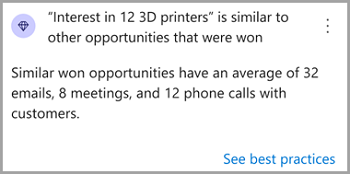
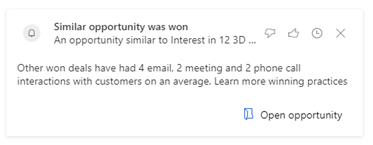
updated cards and table tags

Changed region(s): [[0.0, 0.0, 1.0, 1.0], [0.6571, 0.7448, 0.9143, 0.8276], [0.8286, 0.1103, 0.9429, 0.2759]]

diff --git a/ai-docs/sales/faqs-sales-insights.md b/ai-docs/sales/faqs-sales-insights.md
@@ -48,37 +48,37 @@ Sales insights features are available in the following regions:
 <th>Feature</th><th>NAM</th><th>EMEA</th><th>GBR</th><th>APJ</th><th>CAN</th><th>IND</th><th>JPN</th><th>OCE</th><th>SAM</th>
 </tr>
 <tr>
-<td>Assistant</td><td style="text-align:center"><span style = "color:#3D9140;"><b>&#x2714;</b></span></td><td style="text-align:center"><span style = "color:#3D9140;"><b>&#x2714;</b></span></td><td style="text-align:center"><span style = "color:#3D9140;"><b>&#x2714;</b></span></td><td style="text-align:center"><span style = "color:#3D9140;"><b>&#x2714;</b></span></td><td style="text-align:center"><span style = "color:#3D9140;"><b>&#x2714;</b></span></td><td style="text-align:center"><span style = "color:#3D9140;"><b>&#x2714;</b></span></td><td style="text-align:center"><span style = "color:#3D9140;"><b>&#x2714;</b></span></td><td style="text-align:center"><span style = "color:#3D9140;"><b>&#x2714;</b></span></td><td style="text-align:center"><span style = "color:#FF0800;"><b>&#x2716;</b></span></td>
+<td>Assistant</td><td style="text-align:center"><b>&#x2714;</b></td><td style="text-align:center"><b>&#x2714;</b></td><td style="text-align:center"><b>&#x2714;</b></td><td style="text-align:center"><b>&#x2714;</b></td><td style="text-align:center"><b>&#x2714;</b></td><td style="text-align:center"><b>&#x2714;</b></td><td style="text-align:center"><b>&#x2714;</b></td><td style="text-align:center"><b>&#x2714;</b></td><td style="text-align:center"><b>&#x2716;</b></td>
 </tr>
 <tr>
-<td>Sales accelerator</td><td style="text-align:center"><span style = "color:#3D9140;"><b>&#x2714;</b></span></td><td style="text-align:center"><span style = "color:#3D9140;"><b>&#x2714;</b></span></td><td style="text-align:center"><span style = "color:#3D9140;"><b>&#x2714;</b></span></td><td style="text-align:center"><span style = "color:#3D9140;"><b>&#x2714;</b></span></td><td style="text-align:center"><span style = "color:#3D9140;"><b>&#x2714;</b></span></td><td style="text-align:center"><span style = "color:#3D9140;"><b>&#x2714;</b></span></td><td style="text-align:center"><span style = "color:#3D9140;"><b>&#x2714;</b></span></td><td style="text-align:center"><span style = "color:#3D9140;"><b>&#x2714;</b></span></td><td style="text-align:center"><span style = "color:#FF0800;"><b>&#x2716;</b></span></td>
+<td>Sales accelerator</td><td style="text-align:center"><b>&#x2714;</b></td><td style="text-align:center"><b>&#x2714;</b></td><td style="text-align:center"><b>&#x2714;</b></td><td style="text-align:center"><b>&#x2714;</b></td><td style="text-align:center"><b>&#x2714;</b></td><td style="text-align:center"><b>&#x2714;</b></td><td style="text-align:center"><b>&#x2714;</b></td><td style="text-align:center"><b>&#x2714;</b></td><td style="text-align:center"><b>&#x2716;</b></td>
 </tr>
 <tr>
-<td>Conversation intelligence</td><td style="text-align:center"><span style = "color:#3D9140;"><b>&#x2714;</b></span></td><td style="text-align:center"><span style = "color:#3D9140;"><b>&#x2714;</b></span></td><td style="text-align:center"><span style = "color:#3D9140;"><b>&#x2714;</b></span></td><td style="text-align:center"><span style = "color:#3D9140;"><b>&#x2714;</b></span></td><td style="text-align:center"><span style = "color:#3D9140;"><b>&#x2714;</b></span></td><td style="text-align:center"><span style = "color:#3D9140;"><b>&#x2714;</b></span></td><td style="text-align:center"><span style = "color:#3D9140;"><b>&#x2714;</b></span></td><td style="text-align:center"><span style = "color:#3D9140;"><b>&#x2714;</b></span></td><td style="text-align:center"><span style = "color:#3D9140;"><b>&#x2714;</b></span></td>
+<td>Conversation intelligence</td><td style="text-align:center"><b>&#x2714;</b></td><td style="text-align:center"><b>&#x2714;</b></td><td style="text-align:center"><b>&#x2714;</b></td><td style="text-align:center"><b>&#x2714;</b></td><td style="text-align:center"><b>&#x2714;</b></td><td style="text-align:center"><b>&#x2714;</b></td><td style="text-align:center"><b>&#x2714;</b></td><td style="text-align:center"><b>&#x2714;</b></td><td style="text-align:center"><b>&#x2714;</b></td>
 </tr>
 <tr>
-<td>Auto capture</td><td style="text-align:center"><span style = "color:#3D9140;"><b>&#x2714;</b></span></td><td style="text-align:center"><span style = "color:#3D9140;"><b>&#x2714;</b></span></td><td style="text-align:center"><span style = "color:#3D9140;"><b>&#x2714;</b></span></td><td style="text-align:center"><span style = "color:#3D9140;"><b>&#x2714;</b></span></td><td style="text-align:center"><span style = "color:#3D9140;"><b>&#x2714;</b></span></td><td style="text-align:center"><span style = "color:#3D9140;"><b>&#x2714;</b></span></td><td style="text-align:center"><span style = "color:#3D9140;"><b>&#x2714;</b></span></td><td style="text-align:center"><span style = "color:#3D9140;"><b>&#x2714;</b></span></td><td style="text-align:center"><span style = "color:#FF0800;"><b>&#x2716;</b></span></td>
+<td>Auto capture</td><td style="text-align:center"><b>&#x2714;</b></td><td style="text-align:center"><b>&#x2714;</b></td><td style="text-align:center"><b>&#x2714;</b></td><td style="text-align:center"><b>&#x2714;</b></td><td style="text-align:center"><b>&#x2714;</b></td><td style="text-align:center"><b>&#x2714;</b></td><td style="text-align:center"><b>&#x2714;</b></td><td style="text-align:center"><b>&#x2714;</b></td><td style="text-align:center"><b>&#x2716;</b></td>
 </tr>
 <tr>
-<td>Notes analysis</td><td style="text-align:center"><span style = "color:#3D9140;"><b>&#x2714;</b></span></td><td style="text-align:center"><span style = "color:#3D9140;"><b>&#x2714;</b></span></td><td style="text-align:center"><span style = "color:#3D9140;"><b>&#x2714;</b></span></td><td style="text-align:center"><span style = "color:#3D9140;"><b>&#x2714;</b></span></td><td style="text-align:center"><span style = "color:#3D9140;"><b>&#x2714;</b></span></td><td style="text-align:center"><span style = "color:#3D9140;"><b>&#x2714;</b></span></td><td style="text-align:center"><span style = "color:#3D9140;"><b>&#x2714;</b></span></td><td style="text-align:center"><span style = "color:#3D9140;"><b>&#x2714;</b></span></td><td style="text-align:center"><span style = "color:#FF0800;"><b>&#x2716;</b></span></td>
+<td>Notes analysis</td><td style="text-align:center"><b>&#x2714;</b></td><td style="text-align:center"><b>&#x2714;</b></td><td style="text-align:center"><b>&#x2714;</b></td><td style="text-align:center"><b>&#x2714;</b></td><td style="text-align:center"><b>&#x2714;</b></td><td style="text-align:center"><b>&#x2714;</b></td><td style="text-align:center"><b>&#x2714;</b></td><td style="text-align:center"><b>&#x2714;</b></td><td style="text-align:center"><b>&#x2716;</b></td>
 </tr>
 <tr>
-<td>Relationship analytics</td><td style="text-align:center"><span style = "color:#3D9140;"><b>&#x2714;</b></span></td><td style="text-align:center"><span style = "color:#3D9140;"><b>&#x2714;</b></span></td><td style="text-align:center"><span style = "color:#3D9140;"><b>&#x2714;</b></span></td><td style="text-align:center"><span style = "color:#3D9140;"><b>&#x2714;</b></span></td><td style="text-align:center"><span style = "color:#3D9140;"><b>&#x2714;</b></span></td><td style="text-align:center"><span style = "color:#3D9140;"><b>&#x2714;</b></span></td><td style="text-align:center"><span style = "color:#3D9140;"><b>&#x2714;</b></span></td><td style="text-align:center"><span style = "color:#3D9140;"><b>&#x2714;</b></span></td><td style="text-align:center"><span style = "color:#FF0800;"><b>&#x2716;</b></span></td>
+<td>Relationship analytics</td><td style="text-align:center"><b>&#x2714;</b></td><td style="text-align:center"><b>&#x2714;</b></td><td style="text-align:center"><b>&#x2714;</b></td><td style="text-align:center"><b>&#x2714;</b></td><td style="text-align:center"><b>&#x2714;</b></td><td style="text-align:center"><b>&#x2714;</b></td><td style="text-align:center"><b>&#x2714;</b></td><td style="text-align:center"><b>&#x2714;</b></td><td style="text-align:center"><b>&#x2716;</b></td>
 </tr>
 <tr>
-<td>Who knows whom</td><td style="text-align:center"><span style = "color:#3D9140;"><b>&#x2714;</b></span></td><td style="text-align:center"><span style = "color:#FF0800;"><b>&#x2716;</b></span</td><td style="text-align:center"><span style = "color:#FF0800;"><b>&#x2716;</b></span</td><td style="text-align:center"><span style = "color:#FF0800;"><b>&#x2716;</b></span</td><td style="text-align:center"><span style = "color:#FF0800;"><b>&#x2716;</b></span</td><td style="text-align:center"><span style = "color:#FF0800;"><b>&#x2716;</b></span</td><td style="text-align:center"><span style = "color:#FF0800;"><b>&#x2716;</b></span</td><td style="text-align:center"><span style = "color:#FF0800;"><b>&#x2716;</b></span</td><td style="text-align:center"><span style = "color:#FF0800;"><b>&#x2716;</b></span></td>
+<td>Who knows whom</td><td style="text-align:center"><b>&#x2714;</b></td><td style="text-align:center"><b>&#x2716;</b></span</td><td style="text-align:center"><b>&#x2716;</b></span</td><td style="text-align:center"><b>&#x2716;</b></span</td><td style="text-align:center"><b>&#x2716;</b></span</td><td style="text-align:center"><b>&#x2716;</b></span</td><td style="text-align:center"><b>&#x2716;</b></span</td><td style="text-align:center"><b>&#x2716;</b></span</td><td style="text-align:center"><b>&#x2716;</b></td>
 </tr>
 <tr>
-<td>Talking points</td><td style="text-align:center"><span style = "color:#3D9140;"><b>&#x2714;</b></span></td><td style="text-align:center"><span style = "color:#3D9140;"><b>&#x2714;</b></span></td><td style="text-align:center"><span style = "color:#3D9140;"><b>&#x2714;</b></span></td><td style="text-align:center"><span style = "color:#3D9140;"><b>&#x2714;</b></span></td><td style="text-align:center"><span style = "color:#3D9140;"><b>&#x2714;</b></span></td><td style="text-align:center"><span style = "color:#3D9140;"><b>&#x2714;</b></span></td><td style="text-align:center"><span style = "color:#3D9140;"><b>&#x2714;</b></span></td><td style="text-align:center"><span style = "color:#3D9140;"><b>&#x2714;</b></span></td><td style="text-align:center"><span style = "color:#FF0800;"><b>&#x2716;</b></span></td>
+<td>Talking points</td><td style="text-align:center"><b>&#x2714;</b></td><td style="text-align:center"><b>&#x2714;</b></td><td style="text-align:center"><b>&#x2714;</b></td><td style="text-align:center"><b>&#x2714;</b></td><td style="text-align:center"><b>&#x2714;</b></td><td style="text-align:center"><b>&#x2714;</b></td><td style="text-align:center"><b>&#x2714;</b></td><td style="text-align:center"><b>&#x2714;</b></td><td style="text-align:center"><b>&#x2716;</b></td>
 </tr>
 <tr>
-<td>Predictive lead scoring</td><td style="text-align:center"><span style = "color:#3D9140;"><b>&#x2714;</b></span></td><td style="text-align:center"><span style = "color:#3D9140;"><b>&#x2714;</b></span></td><td style="text-align:center"><span style = "color:#3D9140;"><b>&#x2714;</b></span></td><td style="text-align:center"><span style = "color:#3D9140;"><b>&#x2714;</b></span></td><td style="text-align:center"><span style = "color:#3D9140;"><b>&#x2714;</b></span></td><td style="text-align:center"><span style = "color:#3D9140;"><b>&#x2714;</b></span></td><td style="text-align:center"><span style = "color:#3D9140;"><b>&#x2714;</b></span></td><td style="text-align:center"><span style = "color:#3D9140;"><b>&#x2714;</b></span></td><td style="text-align:center"><span style = "color:#FF0800;"><b>&#x2716;</b></span></td>
+<td>Predictive lead scoring</td><td style="text-align:center"><b>&#x2714;</b></td><td style="text-align:center"><b>&#x2714;</b></td><td style="text-align:center"><b>&#x2714;</b></td><td style="text-align:center"><b>&#x2714;</b></td><td style="text-align:center"><b>&#x2714;</b></td><td style="text-align:center"><b>&#x2714;</b></td><td style="text-align:center"><b>&#x2714;</b></td><td style="text-align:center"><b>&#x2714;</b></td><td style="text-align:center"><b>&#x2716;</b></td>
 </tr>
 <tr>
-<td>Predictive opportunity scoring</td><td style="text-align:center"><span style = "color:#3D9140;"><b>&#x2714;</b></span></td><td style="text-align:center"><span style = "color:#3D9140;"><b>&#x2714;</b></span></td><td style="text-align:center"><span style = "color:#3D9140;"><b>&#x2714;</b></span></td><td style="text-align:center"><span style = "color:#3D9140;"><b>&#x2714;</b></span></td><td style="text-align:center"><span style = "color:#3D9140;"><b>&#x2714;</b></span></td><td style="text-align:center"><span style = "color:#3D9140;"><b>&#x2714;</b></span></td><td style="text-align:center"><span style = "color:#3D9140;"><b>&#x2714;</b></span></td><td style="text-align:center"><span style = "color:#3D9140;"><b>&#x2714;</b></span></td><td style="text-align:center"><span style = "color:#FF0800;"><b>&#x2716;</b></span></td>
+<td>Predictive opportunity scoring</td><td style="text-align:center"><b>&#x2714;</b></td><td style="text-align:center"><b>&#x2714;</b></td><td style="text-align:center"><b>&#x2714;</b></td><td style="text-align:center"><b>&#x2714;</b></td><td style="text-align:center"><b>&#x2714;</b></td><td style="text-align:center"><b>&#x2714;</b></td><td style="text-align:center"><b>&#x2714;</b></td><td style="text-align:center"><b>&#x2714;</b></td><td style="text-align:center"><b>&#x2716;</b></td>
 </tr>
 <tr>
-<td>Premium forecasting</td><td style="text-align:center"><span style = "color:#3D9140;"><b>&#x2714;</b></span></td><td style="text-align:center"><span style = "color:#3D9140;"><b>&#x2714;</b></span></td><td style="text-align:center"><span style = "color:#3D9140;"><b>&#x2714;</b></span></td><td style="text-align:center"><span style = "color:#3D9140;"><b>&#x2714;</b></span></td><td style="text-align:center"><span style = "color:#3D9140;"><b>&#x2714;</b></span></td><td style="text-align:center"><span style = "color:#FF0800;"><b>&#x2716;</b></span></td><td style="text-align:center"><span style = "color:#3D9140;"><b>&#x2714;</b></span></td><td style="text-align:center"><span style = "color:#3D9140;"><b>&#x2714;</b></span></td><td style="text-align:center"><span style = "color:#FF0800;"><b>&#x2716;</b></span></td>
+<td>Premium forecasting</td><td style="text-align:center"><b>&#x2714;</b></td><td style="text-align:center"><b>&#x2714;</b></td><td style="text-align:center"><b>&#x2714;</b></td><td style="text-align:center"><b>&#x2714;</b></td><td style="text-align:center"><b>&#x2714;</b></td><td style="text-align:center"><b>&#x2716;</b></td><td style="text-align:center"><b>&#x2714;</b></td><td style="text-align:center"><b>&#x2714;</b></td><td style="text-align:center"><b>&#x2716;</b></td>
 </tr>
 
 </table>

diff --git a/ai-docs/sales/action-cards-reference.md b/ai-docs/sales/action-cards-reference.md
@@ -143,7 +143,7 @@ The following cards are available under **Insights**.
     <td><a href="#RelationshipAnalytics">Relationship analytics</a></td>
   </tr>
   <tr>
-    <td><a href="#ContactMovedToNewOrg">Contact moved to a new org</a></td>
+    <td><a href="#ContactMovedToNewOrg">Contact is no longer with the company</a></td>
     <td><a href="#TodaysTopPeople">Today's top people</a></td>
     <td><a href="#TodaysTopRecords">Today's top records</td>
   </tr>
@@ -168,7 +168,7 @@ The following cards are available under **Insights**.
 | <a name="SuggestedActivities"></a>**Suggested Activities** <br/> ![Suggested activities](media/ActionCard_SuggestedActivities.png "Insight card for suggested activities") | Premium | **Description**:<br> This card is provided as an alert when new activity suggestions are available in Dynamics 365 Sales.<br>**Feature**:<br>Indicates that new activities are available for you with the total number and regarding what.<br> **Actions**: <br>Open activity suggestions<br>**Prerequisite**: <br> Enable premium auto capture to use this card. To learn more, see [How to enable and configure premium auto capture](configure-auto-capture.md#how-to-enable-and-configure-premium-auto-capture). <br> You must purchase Sales Insights license. |
 | <a name="SuggestedContacts"></a>**Suggested Contacts** <br/> ![Suggested contacts](media/ActionCard_SuggestedContacts.png "Insight card for suggested contacts") | Premium | **Description**: <br>This card is provided as an alert when new contact suggestions are available in Dynamics 365 Sales.<br>**Feature**:<br>Indicates that new contacts are available for you with the total number and who. <br>**Actions**: <br> Open contact suggestions<br>**Prerequisite**: <br> Enable premium auto capture to use this card. To learn more, see [How to enable and configure premium auto capture](configure-auto-capture.md#how-to-enable-and-configure-premium-auto-capture). <br> You must purchase a Sales Insights license.|
 | <a name="RelationshipAnalytics"></a>**Relationship analytics** <br/> ![Relationship analytics](media/ActionCard_RelationshipAnalytics.png "Insight card for relationship analytics") |  Premium | **Description**: <br>This card is provided as an alert when you have an opportunity that is similar to deals that are won recently.<br>**Feature**:<br>Indicates that the current opportunity is similar to the opportunities that had been previously won. <br>**Actions**: <br>See best practices <br> By selecting the action, you can view comparable information on the KPIs, graphs, activity history, and relationship health with similar deals that had been won. <br>**Prerequisite**: <br> Enable preview to view similar opportunities in Relationship analytics to use this card. To learn more, see [step 5 in Configure Relationship analytics](configure-relationship-analytics.md#configure-similar-opportunities-preview). <br> You must purchase a Sales Insights license.|
-| <a name="ContactMovedToNewOrg"></a>**Contact moved to a new org** <br/> ![Contact moved to a new org](media/ActionCard_ContactMovedToNewOrg.png "Insight card for contact moved to a new org") | Premium | **Description**: Tells you that one of your contacts has left the company based on the information LinkedIn has.<br>**Actions**:<br>Open – Opens the contact record<br> **Prerequisite**:<br>Users should have a **LinkedIn Sales Navigator** license to use this card. To learn more, see [Install, enable, and disable default LinkedIn Sales Navigator controls](https://docs.microsoft.com/dynamics365/linkedin/install-sales-navigator).|
+| <a name="ContactMovedToNewOrg"></a>**Contact is no longer with the company** <br/> ![Contact left the company](media/ActionCard_ContactMovedToNewOrg.png "Insight card for contact left the company") | Premium | **Description**: Tells you that one of your contacts has left the company based on the information LinkedIn has.<br>**Actions**:<br>Open – Opens the contact record<br> **Prerequisite**:<br>Users should have a **LinkedIn Sales Navigator** license to use this card. To learn more, see [Install, enable, and disable default LinkedIn Sales Navigator controls](https://docs.microsoft.com/dynamics365/linkedin/install-sales-navigator).|
 | <a name="TodaysTopPeople"></a>**Today's Top People** <br />![Insight card for top people today](media/ActionCard_TopPeople.png "Insight card for top people today") | Standard | **Description**: <br>The system analyzes your appointments, tasks, and other work for the day and generates this card to show the contacts you're most likely to interact with today.<br>**Features**:<br>Shows each contact's name and portrait.<br>Shows each contact's title and any business they have with you today (such as a meeting, task, or phone call).<br>Click to view full contact details. |
 | <a name="TodaysTopRecords"></a>**Today's Top Records**<br />![Insight card for top records today](media/ActionCard_TopRecords.png "Insight card for top records today") | Standard |**Description**:<br> The system analyzes all of the Sales records that are related to you and lists the records that you are most likely to be working with today based on your recent activities and date information (such as a due date or appointment) in each record.<br>**Features**:<br> Shows a thumbnail image and a summary of each found record.<br>Click to view the full record. |
 | <a name="UpcomingFlight"></a>**Upcoming Flight** <br />  ![flight](media/ActionCard_Flight.png "Insight card for upcoming flight") | Standard | **Description**: <br>This card is generated when your Exchange inbox includes an email message that contains a flight confirmation. The system then matches the flight dates to upcoming meetings and finds other information related to the location that you are flying to, such as other nearby customers.<br>**Note**: This card doesn't show live or updated flight information, just information from the flight confirmation email message that triggered the card.<br>**Features**: <br>Flight company and flight number, with a link to the flight record.<br>Departure and arrival times, with airport codes.<br>Related meeting record, with link. Up to three meetings may be listed here.<br>List of customer offices near the destination airport, with links. <br>**Actions**:<br>Open Email |
